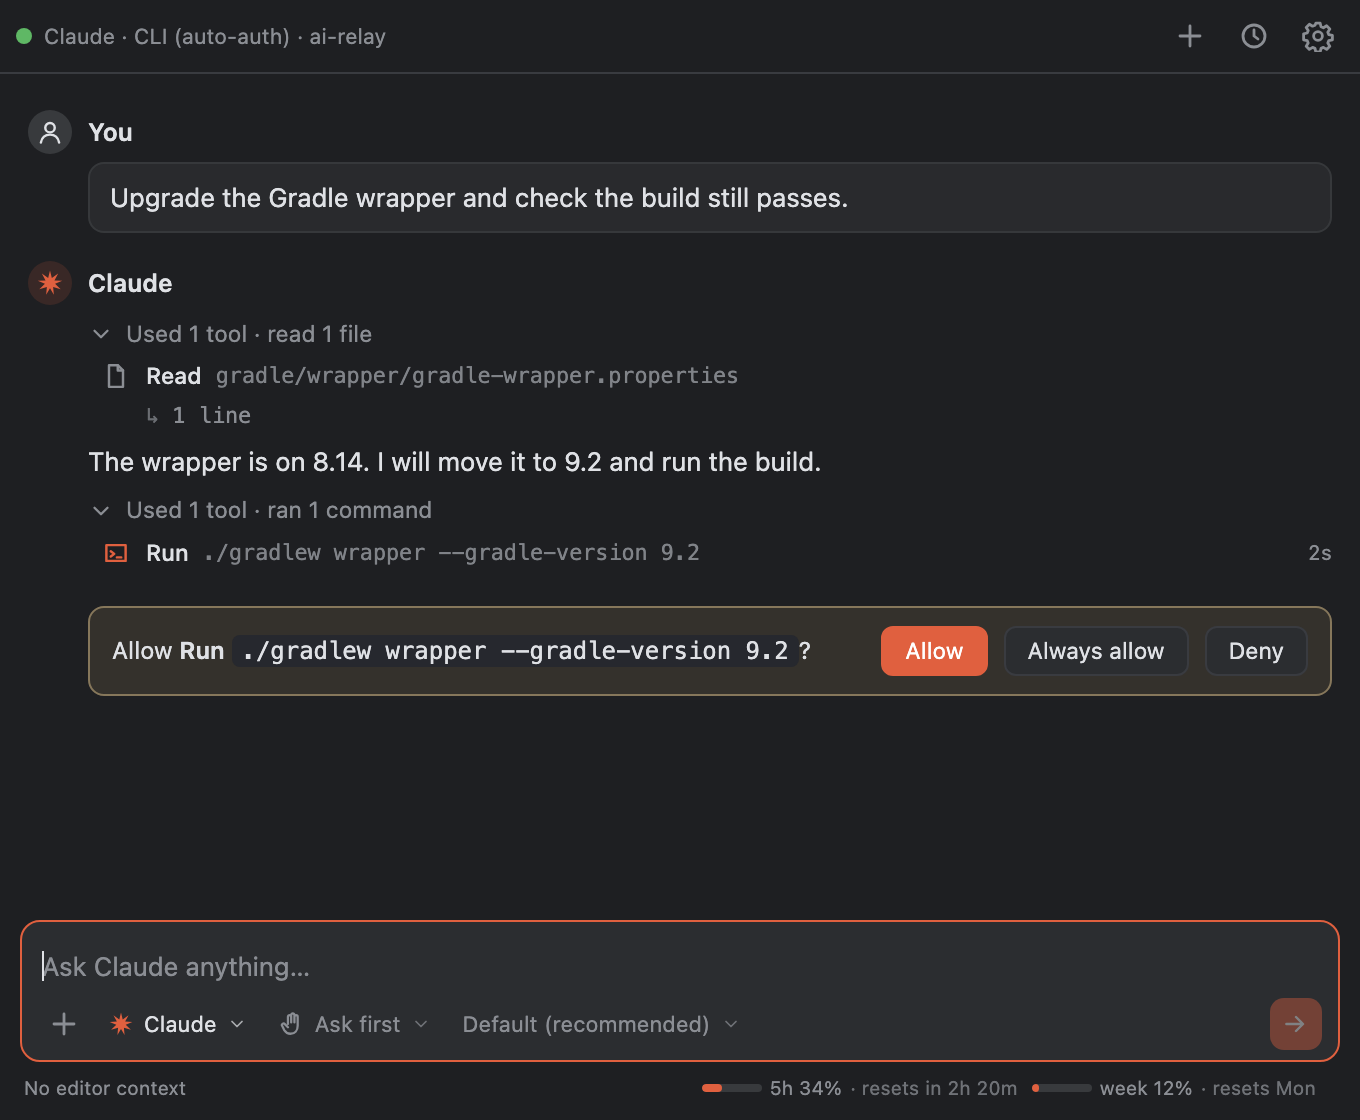
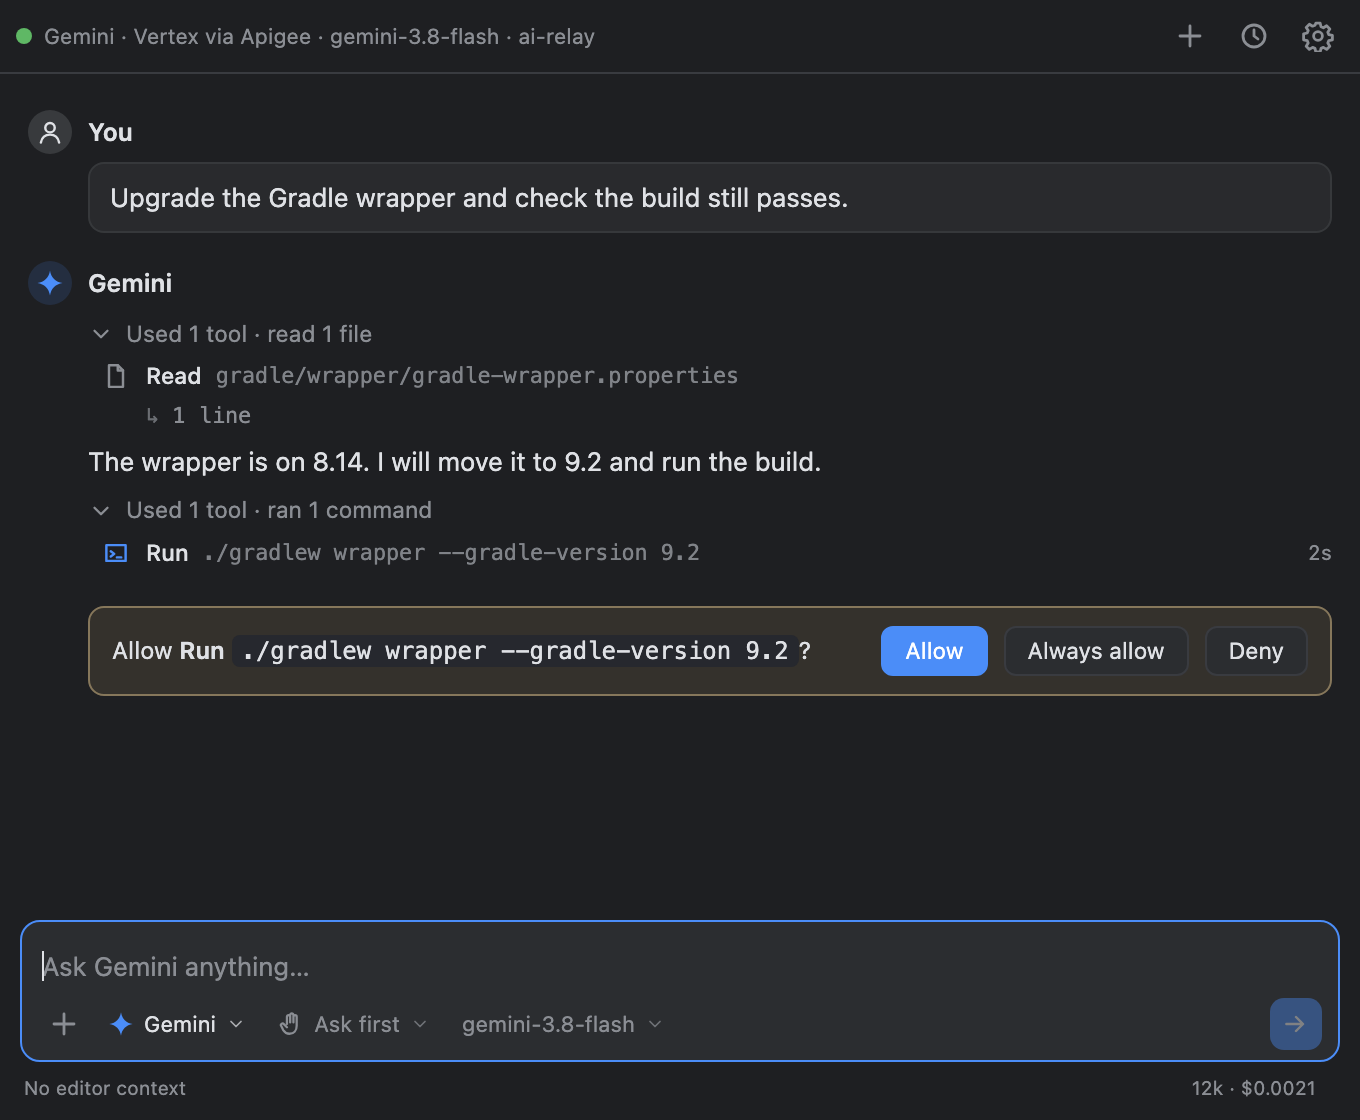
Screenshots: the permission prompt is Gemini's, and Claude's usage has no plan
Claude in print mode does not pass permission questions to AI Relay, so a
Claude prompt was not something the panel shows; and Claude's usage report
carries no plan name.

diff --git a/README.md b/README.md
@@ -50,7 +50,7 @@ or a standard Vertex project too.
 </p>
 <p align="center">
   <img src="docs/screenshots/agents.png" width="260" alt="The agent picker: Gemini, Microsoft 365 Copilot, GitHub Copilot and Claude">
-  <img src="docs/screenshots/permission.png" width="260" alt="Ask first: a permission prompt for a command">
+  <img src="docs/screenshots/permission.png" width="260" alt="Ask first: Gemini asks before running a command">
   <img src="docs/screenshots/composer.png" width="260" alt="The composer: the + menu with skills, personas and MCP; the editor selection and an attached file">
 </p>
 <p align="center">
